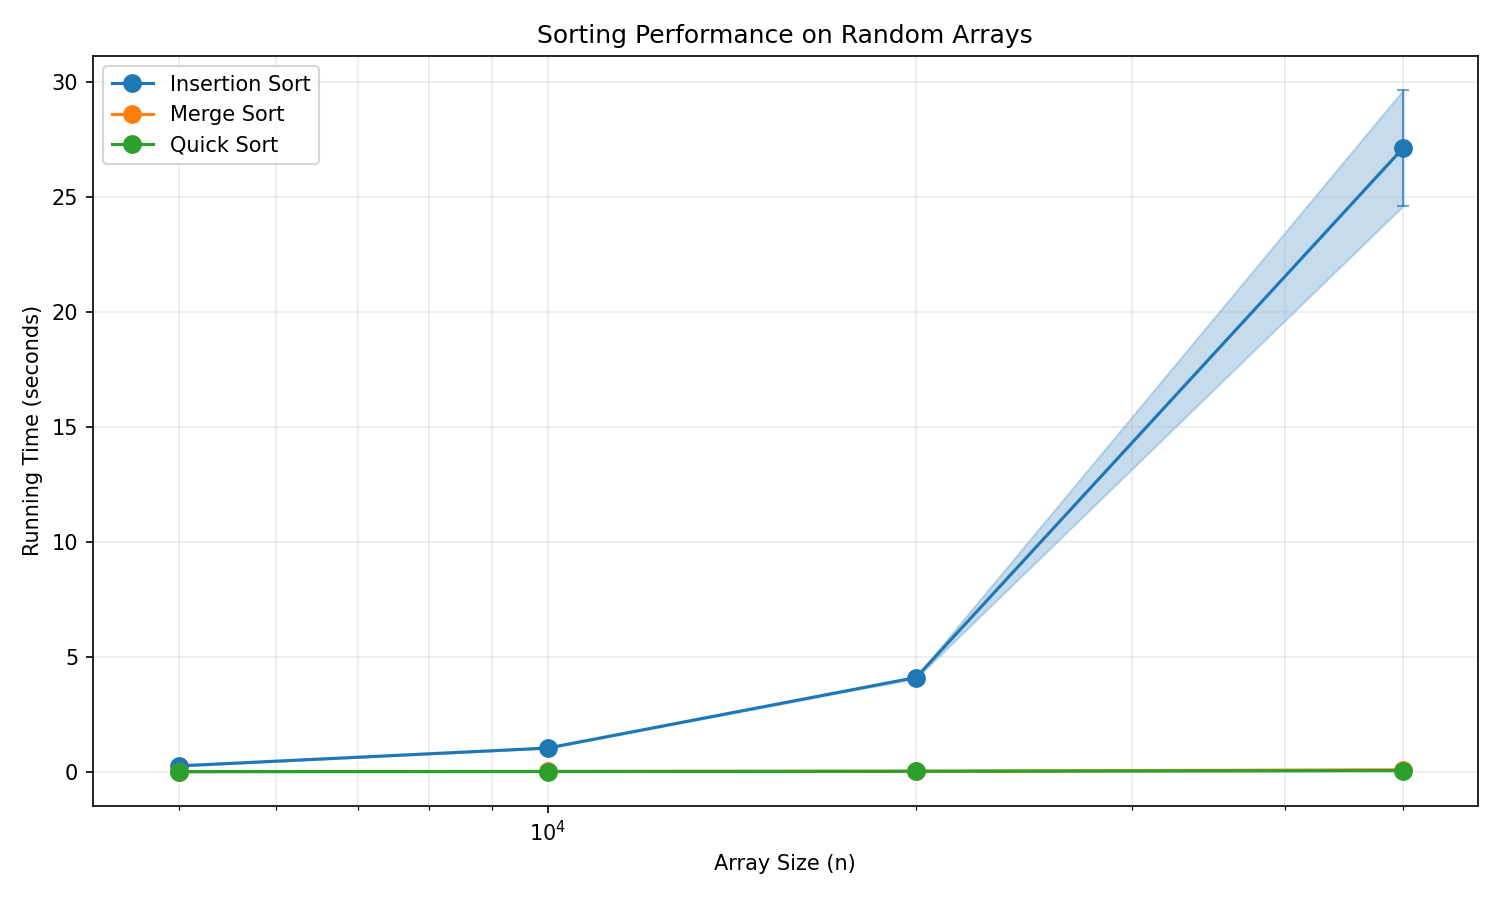
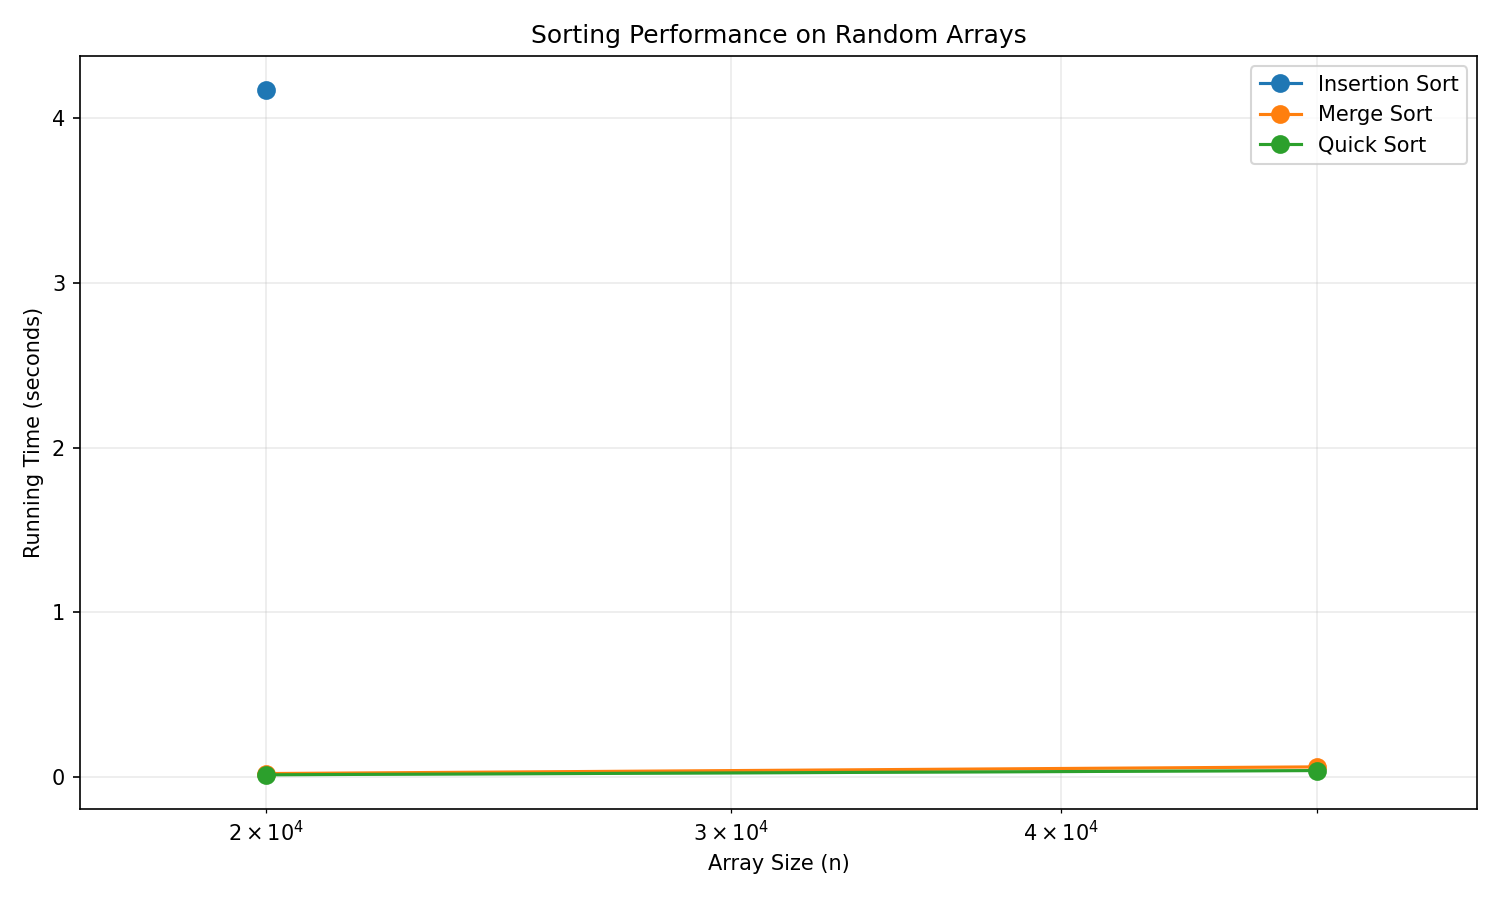
Refactor README for clarity on implemented algorithms and execution; update run_experiments.py to handle unimplemented algorithms with warnings, limit Insertion Sort size, and improve argument validation; adjust plotting to skip skipped measurements.

diff --git a/run_experiments.py b/run_experiments.py
@@ -3,6 +3,7 @@ from __future__ import annotations
 import argparse
 import math
 import statistics
+import sys
 import time
 from dataclasses import dataclass
 from random import Random
@@ -12,7 +13,16 @@ import matplotlib.pyplot as plt
 
 
 NOISE_LEVEL_BY_EXPERIMENT = {1: 0.05, 2: 0.20}
-ALGORITHM_NAMES = {3: "Insertion Sort", 4: "Merge Sort", 5: "Quick Sort"}
+ALGORITHM_NAMES = {
+    1: "Bubble Sort",
+    2: "Selection Sort",
+    3: "Insertion Sort",
+    4: "Merge Sort",
+    5: "Quick Sort",
+}
+INSERTION_SORT_ID = 3
+MAX_INSERTION_SORT_SIZE = 20_000
+NOT_IMPLEMENTED_IDS = frozenset({1, 2})
 DEFAULT_RANDOM_SEED = 42
 DEFAULT_SIZES = [
     5_000,
@@ -38,6 +48,7 @@ class Measurement:
     size: int
     mean_seconds: float
     std_seconds: float
+    skipped: bool = False
 
 
 def insertion_sort(values: list[int]) -> list[int]:
@@ -120,10 +131,7 @@ def quick_sort(values: list[int]) -> list[int]:
 def parse_args() -> argparse.Namespace:
     parser = argparse.ArgumentParser(
         description="Run sorting algorithm experiments and create required plots.",
-        epilog=(
-            "Course algorithm IDs: 1=Bubble, 2=Selection, 3=Insertion, 4=Merge, 5=Quick. "
-            "This file implements 3, 4, 5 only; use e.g. -a 3 4 5."
-        ),
+        epilog="Algorithm IDs: 1=Bubble, 2=Selection, 3=Insertion, 4=Merge, 5=Quick. IDs 1-2 are not implemented (warning only).",
     )
     parser.add_argument(
         "-a",
@@ -131,7 +139,7 @@ def parse_args() -> argparse.Namespace:
         nargs="+",
         type=int,
         required=True,
-        help="Exactly three algorithm IDs for this submission: 3=Insertion, 4=Merge, 5=Quick (course table 1-5; see README).",
+        help="Exactly three algorithm IDs from 1–5 (see epilog). IDs 1–2 print Not implemented.",
     )
     parser.add_argument(
         "-s",
@@ -159,7 +167,7 @@ def validate_args(args: argparse.Namespace) -> None:
         raise ValueError("Please provide exactly 3 algorithms using -a.")
     invalid_algorithms = [algorithm_id for algorithm_id in args.algorithms if algorithm_id not in ALGORITHM_NAMES]
     if invalid_algorithms:
-        raise ValueError(f"Invalid algorithm IDs: {invalid_algorithms}. Allowed IDs are 3, 4, 5.")
+        raise ValueError(f"Invalid algorithm IDs: {invalid_algorithms}. Allowed IDs are 1–5.")
     if len(set(args.algorithms)) != len(args.algorithms):
         raise ValueError("Algorithm IDs must be unique.")
     sizes = args.sizes if args.sizes else DEFAULT_SIZES
@@ -172,19 +180,25 @@ def validate_args(args: argparse.Namespace) -> None:
 
 
 def resolve_algorithms(algorithm_ids: list[int]) -> list[AlgorithmConfig]:
-    available: dict[int, Callable[[list[int]], list[int]]] = {
+    implemented: dict[int, Callable[[list[int]], list[int]]] = {
         3: insertion_sort,
         4: merge_sort,
         5: quick_sort,
     }
-    missing = [algorithm_id for algorithm_id in algorithm_ids if algorithm_id not in available]
-    if missing:
-        unsupported_names = [ALGORITHM_NAMES.get(algorithm_id, str(algorithm_id)) for algorithm_id in missing]
-        raise ValueError(f"Unsupported selections: {unsupported_names}. Use IDs 3, 4, 5.")
-    return [
-        AlgorithmConfig(algorithm_id=algorithm_id, name=ALGORITHM_NAMES[algorithm_id], sort_fn=available[algorithm_id])
-        for algorithm_id in algorithm_ids
-    ]
+    configs: list[AlgorithmConfig] = []
+    for algorithm_id in algorithm_ids:
+        name = ALGORITHM_NAMES[algorithm_id]
+        if algorithm_id in NOT_IMPLEMENTED_IDS:
+            print(f"Warning: {name} (ID {algorithm_id}): Not implemented - skipping.")
+            continue
+        sort_fn = implemented.get(algorithm_id)
+        if sort_fn is None:
+            print(f"Warning: {name} (ID {algorithm_id}): Not implemented - skipping.")
+            continue
+        configs.append(AlgorithmConfig(algorithm_id=algorithm_id, name=name, sort_fn=sort_fn))
+    if not configs:
+        raise ValueError("No implemented algorithms left after resolving -a; use at least one of IDs 3, 4, 5.")
+    return configs
 
 
 def generate_random_array(size: int, rng: Random) -> list[int]:
@@ -193,11 +207,14 @@ def generate_random_array(size: int, rng: Random) -> list[int]:
 
 def generate_nearly_sorted_array(size: int, noise_fraction: float, rng: Random) -> list[int]:
     arr = list(range(size))
-    swap_count = max(1, round(size * noise_fraction))
-    for _ in range(swap_count):
-        i = rng.randrange(size)
-        j = rng.randrange(size)
-        arr[i], arr[j] = arr[j], arr[i]
+    if size == 0:
+        return arr
+    k = max(1, min(size, round(size * noise_fraction)))
+    indices = rng.sample(range(size), k)
+    block = [arr[i] for i in indices]
+    rng.shuffle(block)
+    for idx, value in zip(indices, block, strict=True):
+        arr[idx] = value
     return arr
 
 
@@ -211,6 +228,14 @@ def run_experiment(
     metrics: dict[str, list[Measurement]] = {algorithm.name: [] for algorithm in algorithms}
     for size in sizes:
         for algorithm in algorithms:
+            if algorithm.algorithm_id == INSERTION_SORT_ID and size > MAX_INSERTION_SORT_SIZE:
+                print(
+                    f"Warning: Skipping Insertion Sort for n={size} (cap {MAX_INSERTION_SORT_SIZE}) to avoid long runtimes."
+                )
+                metrics[algorithm.name].append(
+                    Measurement(size=size, mean_seconds=math.nan, std_seconds=math.nan, skipped=True)
+                )
+                continue
             runs: list[float] = []
             for rep_idx in range(repetitions):
                 rng = Random(seed + (size * 10_000) + rep_idx)
@@ -230,13 +255,14 @@ def plot_results(metrics: dict[str, list[Measurement]], output_path: str, title:
     prop_cycle = plt.rcParams["axes.prop_cycle"].by_key().get("color", ["#1f77b4", "#ff7f0e", "#2ca02c"])
     all_sizes: list[int] = []
     for idx, (name, measurements) in enumerate(metrics.items()):
-        if not measurements:
+        active = [m for m in measurements if not m.skipped and not math.isnan(m.mean_seconds)]
+        if not active:
             continue
         color = prop_cycle[idx % len(prop_cycle)]
-        x = [m.size for m in measurements]
+        x = [m.size for m in active]
         all_sizes.extend(x)
-        y = [m.mean_seconds for m in measurements]
-        yerr = [0.0 if math.isnan(m.std_seconds) else m.std_seconds for m in measurements]
+        y = [m.mean_seconds for m in active]
+        yerr = [0.0 if math.isnan(m.std_seconds) else m.std_seconds for m in active]
         lower = [max(0.0, yi - ei) for yi, ei in zip(y, yerr)]
         upper = [yi + ei for yi, ei in zip(y, yerr)]
         plt.fill_between(x, lower, upper, alpha=0.25, color=color)
@@ -265,14 +291,20 @@ def print_summary(metrics: dict[str, list[Measurement]]) -> None:
     for name, measurements in metrics.items():
         print(f"\n{name}")
         for measurement in measurements:
+            if measurement.skipped:
+                print(f"  n={measurement.size:<8} skipped (Insertion Sort > {MAX_INSERTION_SORT_SIZE})")
+                continue
             print(f"  n={measurement.size:<8} {measurement.mean_seconds:.6f} +/- {measurement.std_seconds:.6f}")
 
 
 def main() -> None:
     args = parse_args()
     validate_args(args)
-    algorithms = resolve_algorithms(args.algorithms)
     sizes = sorted(args.sizes if args.sizes else DEFAULT_SIZES)
+    max_n = max(sizes) if sizes else 1
+    merge_depth_budget = max(5000, (max_n.bit_length() + 8) * 200)
+    sys.setrecursionlimit(min(1_000_000, max(sys.getrecursionlimit(), merge_depth_budget)))
+    algorithms = resolve_algorithms(args.algorithms)
     noise_fraction = NOISE_LEVEL_BY_EXPERIMENT[args.experiment]
 
     random_metrics = run_experiment(

diff --git a/README.md b/README.md
@@ -9,7 +9,7 @@ Per the assignment list, this submission implements and compares:
 - **4** – Merge Sort  
 - **5** – Quick Sort  
 
-(The course handout maps IDs 1–5 to Bubble, Selection, Insertion, Merge, and Quick; only the three above are implemented here.)
+The course table lists IDs **1–5** (Bubble, Selection, Insertion, Merge, Quick). This code implements **Insertion, Merge, and Quick** (3–5). If you pass **1** or **2**, the program prints **Not implemented** and continues with the remaining IDs.
 
 ## How To Run
 
@@ -24,10 +24,12 @@ Assignment-style example with explicit sizes (must include large `n` if you want
 If you use only small sizes (e.g. `-s 100 500 1000`), the plot will only span that range.
 
 CLI:
-- **`-a`** – exactly three algorithm IDs (here: `3`, `4`, `5`)
+- **`-a`** – exactly three IDs from **1–5** (unimplemented **1–2** are skipped with a warning)
 - **`-s`** – array sizes (optional; default starts at **5,000** and goes up to **1,000,000**)
-- **`-e`** – `1` = nearly sorted with **5%** random swaps, `2` = **20%**
+- **`-e`** – `1` = nearly sorted with **5%** of positions perturbed, `2` = **20%** (shuffle within a sampled index set)
 - **`-r`** – repetitions per size
+
+**Insertion Sort** is not run for **n > 20,000** (warning + skipped point) so huge sizes do not hang.
 
 Outputs: **`result1.png`** (random arrays), **`result2.png`** (nearly sorted with noise).
 
